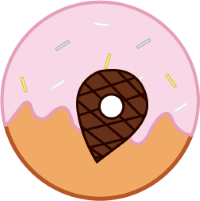
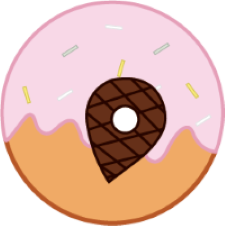
touch up resizing and for home page

diff --git a/teststyle.css b/teststyle.css
@@ -625,11 +625,11 @@ main{
 .donut {
   animation: rotation 2s infinite linear;
   padding: 84px;
-  margin-top: 45%;
+  margin-top: 40%;
 }
 .donut-text{
   padding-top: 0%;
-  padding-left: 25px;
+  padding-left: 35px;
 }
 @keyframes rotation {
   from {
